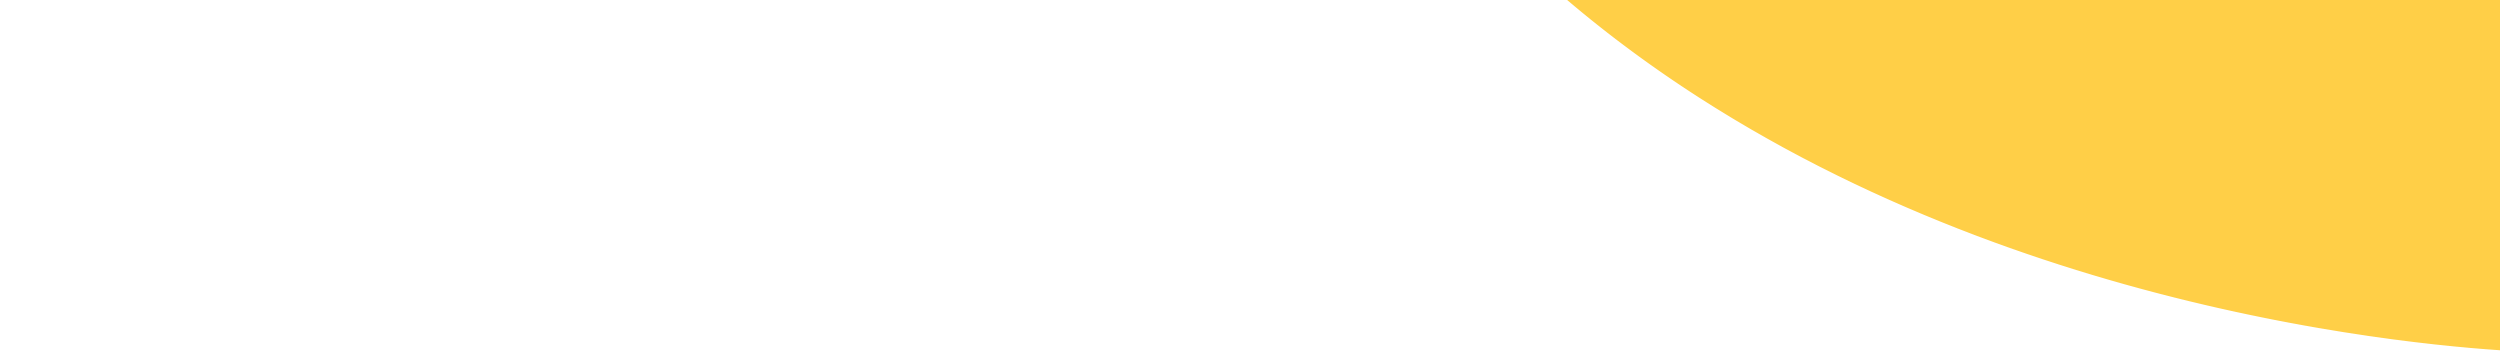
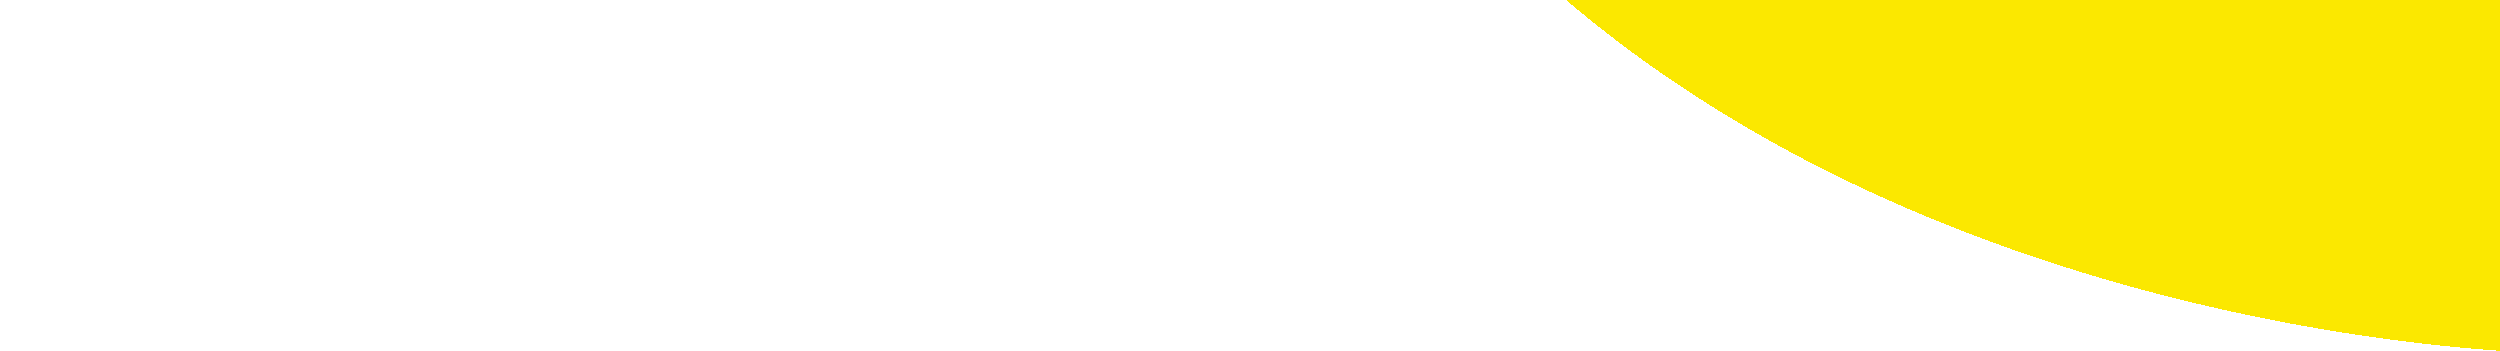
about us & how we work added

Changed region(s): [[0.624, 0.0, 1.0, 1.0]]

diff --git a/index.html b/index.html
@@ -41,50 +41,75 @@
         </section>
 
         <section class="courses">
-            <article class="courses__cards" id="coursesCardContainer"> 
-            <!-- <div class="courses__card-container"> CARD
-                    <div class="courses__card-header">
-                        <h4>cambridge</h4>
-                        <img src="./img/cambridge.png" alt="">
-                        <h5>preparación de exámenes</h5>
+            <article class="courses__cards" id="coursesCardContainer"></article>
+            <article class="courses__levels" id="cardContainer"></article>
+        </section>
+        <section class="learn">
+            <article>
+                <div class="learn__tittles">
+                    <h2>¿Cómo<br><span> trabajamos?</span></h2>
+                    <div>
+                        <img src="./img/perfil-vacio.png" alt="">
+                        <img src="./img/perfil-relleno.png" alt="">
                     </div>
-                    <p>En estos cursos brindamos todas las herramientas necesarias para poder rendir los exámenes
-                        internacionales de Cambridge, FIRST y AVANCED. La preparación se completa al cabo de dos
-                        cuatrimestres de estudio. Es necesaria una evaluación de nivel previa.</p>
-                    <button class="btn">ver más</button>
-                </div> -->
-            </article>
-            <article class="courses__levels" id="cardContainer">
-                <!-- <div class="card">
-                    <div class="card__tittle">
-                        <h4 class="card__tittle--one">nivel</h4>
-                        <h5 class="card__tittle--two">principiantes</h5>
-                    </div>
-                    <div class="card__course-names">
-                        <img src="./img/burbuja-rosa.png" alt="">
-                        <span>A1, A2</span>
-                    </div>
-                    <ul>
-                        <li>Aprendé Inglés desde cero.</li>
-                        <li>Hablá desde el primer dia.</li>
-                        <li>Grupos reducidos.</li>
-                    </ul>
-                    <div class="card__img-btn">
-                        <img src="./img/gatito.png" alt="">
-                        <button id="beginnerBtn" class="btn">ver más</button>
-                    </div>
-                </div> -->
+                </div>
+                <p>
+                    En nuestras clases utilizamos el método comunicativo para enseñar idiomas. Este enfoque se
+                    centra en desarrollar las habilidades expresivas del estudiante a través de la práctica oral y
+                    escrita, y las habilidades de comprensión a través de la escucha y la lectura, lo que permite
+                    adquirir confianza en el uso del idioma en situaciones cotidianas. También creemos en los
+                    enormes beneficios del aprendizaje en grupo, donde a través del
+                    intercambio se generala posibilidad del aprendizaje colaborativo.
+                </p>
             </article>
         </section>
-
-
-
-
+        <section class="about-us">
+            <h2>¿Quiénes somos?</h2>
+            <img class="about-us__bg" src="./img/amarillo_top.png" alt="">
+            <arcticle class="about-us__luana">
+                <img src="./img/luana.png" alt="">
+                <div>
+                    <p>Luana Luxardo, profesora de
+                        inglés egresada del ISP Joaquín
+                        V. González y examinadora de
+                        los exámenes internacionales
+                        de Cambridge. Soy también Lic.
+                        en Educación de la UVQ.</p>
+                    <p>Doy clases a adolescentes y
+                        adultos hace más de 20 años
+                        en distintos ámbitos y coordino
+                        el Área de inglés del Colegio de
+                        la Ciudad. Desde el 2019 me
+                        especializo en dictar clases en
+                        modalidad online.</p>
+                </div>
+            </arcticle>
+            <arcticle class="about-us__emilia">
+                <div>
+                    <p>Emilia González, profesora de
+                        inglés egresada del ISP
+                        Joaquín V. González y
+                        examinadora de los exámenes
+                        internacionales de Cambridge.</p>
+                    <p>Desde el 2005, doy clases
+                        a adolescentes y adultos en
+                        distintos ámbitos y niveles.
+                        Actualmente me
+                        especializo en dictar clases en
+                        modalidad online.</p>
+                </div>
+                <img src="./img/emilia.png" alt="">
+            </arcticle>
+        </section>
 
     </main>
+
+
+
+
     <footer></footer>
-    <script src="./js/assets/courses.js"></script>
     <script src="./js/assets/level_cards.js"></script>
+    <script src="./js/assets/courses.js"></script>
     <script src="./js/main.js"></script>
 </body>
 

diff --git a/css/styles.css b/css/styles.css
@@ -17,6 +17,10 @@
   font-family: "segoe";
   src: url("../fonts/SEGOEUI.TTF");
 }
+.display-none {
+  display: none;
+}
+
 .btn {
   background-color: #FBE800;
   padding: 0.7rem 1rem;
@@ -226,6 +230,7 @@ nav {
   gap: 0;
   width: 100vw;
   height: 150px;
+  background-image: url(../img/amarillo_top.png);
   background-position: center top;
   background-size: 100%;
   background-repeat: no-repeat;
@@ -277,6 +282,95 @@ nav {
 .courses__levels {
   width: 90%;
   margin: 0 auto;
+}
+
+.learn {
+  background-image: url(../../img/violeta.png);
+  background-repeat: no-repeat;
+  background-position: right top;
+  overflow: visible;
+  width: 100vw;
+}
+.learn article {
+  display: flex;
+  flex-direction: column;
+  justify-content: center;
+  align-items: center;
+  gap: 0;
+}
+.learn__tittles {
+  display: flex;
+  flex-direction: row;
+  justify-content: center;
+  align-items: center;
+  gap: 0;
+  margin-top: 20px;
+}
+.learn__tittles h2 {
+  font-size: 3rem;
+  line-height: 31px;
+  color: white;
+}
+.learn__tittles span {
+  font-size: 2rem;
+}
+.learn img {
+  width: 60px;
+}
+.learn p {
+  font-family: "segoe";
+  font-size: 1.1rem;
+  width: 330px;
+  color: white;
+  background-color: #40B9B9;
+  padding: 2em;
+  border-radius: 30px;
+  margin: 3em 0;
+  border: 1px solid #706F6F;
+}
+
+.about-us {
+  display: flex;
+  flex-direction: column;
+  justify-content: center;
+  align-items: center;
+  gap: 0;
+  position: relative;
+}
+.about-us__bg {
+  position: absolute;
+  transform: scale(-1, 1) translate(-750px, -225px);
+  z-index: -1;
+}
+.about-us h2 {
+  color: #40B9B9;
+  font-family: "roboto";
+  font-size: 2.5rem;
+}
+.about-us__luana, .about-us__emilia {
+  display: flex;
+  flex-direction: row;
+  justify-content: center;
+  align-items: center;
+  gap: 0;
+}
+.about-us__luana img, .about-us__emilia img {
+  width: 187px;
+  padding: 2em 0.5em 1em 1em;
+  place-self: flex-start;
+}
+.about-us__luana p, .about-us__emilia p {
+  width: 187px;
+  padding: 0.5em 1em 0.5em 0.5em;
+}
+.about-us__luana p:nth-child(1), .about-us__emilia p:nth-child(1) {
+  color: #E2318A;
+}
+.about-us__emilia img {
+  padding: 2em 1em 1em 0.5em;
+}
+.about-us__emilia p {
+  padding: 0.5em 0.1em 0.5em 1em;
 }
 
 @media (min-width: 768px) {

diff --git a/js/assets/courses.js b/js/assets/courses.js
@@ -69,6 +69,11 @@ cardHeadersBG[3].style.backgroundImage = 'linear-gradient(180deg, #40B9B9 0% 30%
 cardHeadersBG[4].style.backgroundImage = 'linear-gradient(180deg, #FBE800 0% 30%, transparent 30% 100% )'
 
 
+const levelCourses = document.querySelector('.courses__card-container .btn');
 
+levelCourses.addEventListener("click", ()=>{
+    
+    cardHeadersBG[0].classList.toggle('display-none')
+})
 
 

diff --git a/js/assets/level_cards.js b/js/assets/level_cards.js
@@ -20,7 +20,7 @@ console.log(coursesArr)
 
 const cardContainer = document.getElementById('cardContainer');
 
-function createLevelCards() {
+let createLevelCards = function () {
     coursesArr.forEach((e, i) => {
         const card = document.createElement('div');
         card.classList.add("card");
